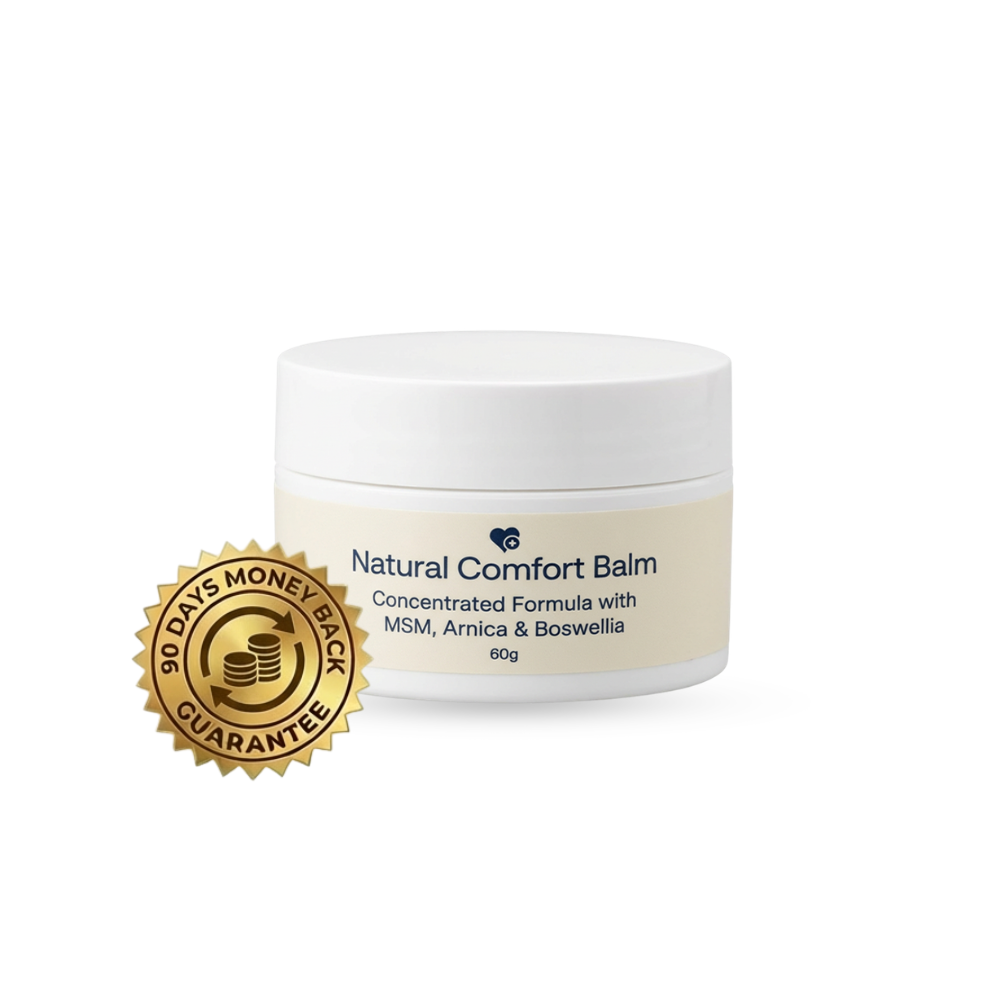
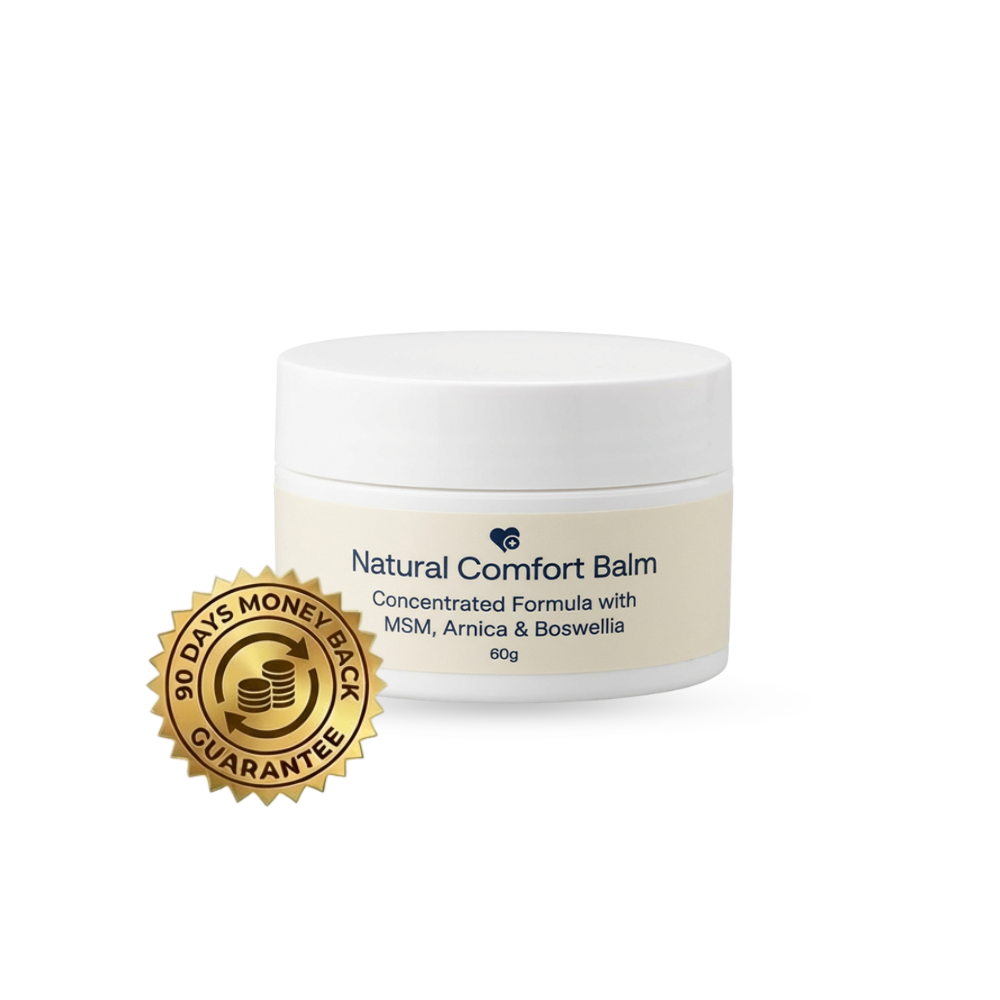
Update offer images and cache version

Changed region(s): [[0.124, 0.527, 0.403, 0.806]]

diff --git a/index.html b/index.html
@@ -10078,7 +10078,7 @@ body.dom-pending * {
                     Most Popular
                   </div><div class="nv-card-sublabel" id="cc-id-rl2vyj8Q4xjs">
                     Our recommended supply to see real, lasting results
-                  </div></div><div class="nv-card-body" id="cc-id-XyEAPtEicVgV"><img class="fk-disable-lazy" src="2x.png?v=e1def9e" alt="1-Month Supply" id="cc-id-pt6FReghFY4m" title="" href="" onclick="" target="_self" align="center" width="" height=""><div class="nv-card-total" id="cc-id-i84FM1mfpA1G">
+                  </div></div><div class="nv-card-body" id="cc-id-XyEAPtEicVgV"><img class="fk-disable-lazy" src="2x.png?v=20260527a" alt="1-Month Supply" id="cc-id-pt6FReghFY4m" title="" href="" onclick="" target="_self" align="center" width="" height=""><div class="nv-card-total" id="cc-id-i84FM1mfpA1G">
                     Total = $49.95
                   </div><div class="nv-card-was" id="cc-id-3lcBztOkwCSj">
                     Was $90.90
@@ -10094,7 +10094,7 @@ body.dom-pending * {
                     Best Value
                   </div><div class="nv-card-sublabel" id="cc-id-OiidhwPVyP7x">
                     Maximize results and savings with a full two-month supply
-                  </div></div><div class="nv-card-body" id="cc-id-wkQvYwWjpvrJ"><img class="fk-disable-lazy" src="4x.png?v=e1def9e" alt="2-Month Supply" id="cc-id-F6S13aYzeaLR" title="" href="" onclick="" target="_self" align="center" width="" height=""><div class="nv-card-total" id="cc-id-Jq1eCEq11DYC">
+                  </div></div><div class="nv-card-body" id="cc-id-wkQvYwWjpvrJ"><img class="fk-disable-lazy" src="4x.png?v=20260527a" alt="2-Month Supply" id="cc-id-F6S13aYzeaLR" title="" href="" onclick="" target="_self" align="center" width="" height=""><div class="nv-card-total" id="cc-id-Jq1eCEq11DYC">
                     Total = $89.90
                   </div><div class="nv-card-was" id="cc-id-oDoaSnbBMTdV">
                     Was $269.70
@@ -10110,7 +10110,7 @@ body.dom-pending * {
                     Introductory
                   </div><div class="nv-card-sublabel" id="cc-id-PyhYPVdKavXT">
                     Perfect if you want to test it out first
-                  </div></div><div class="nv-card-body" id="cc-id-AgvoRLbzQhU5"><img class="fk-disable-lazy" src="1x.png?v=e1def9e" alt="Single Balm" id="cc-id-W2KZ3nDjfDYQ" title="" href="" onclick="" target="_self" align="center" width="" height=""><div class="nv-card-total" id="cc-id-oYmzmd1jAY3w">
+                  </div></div><div class="nv-card-body" id="cc-id-AgvoRLbzQhU5"><img class="fk-disable-lazy" src="1x.png?v=20260527a" alt="Single Balm" id="cc-id-W2KZ3nDjfDYQ" title="" href="" onclick="" target="_self" align="center" width="" height=""><div class="nv-card-total" id="cc-id-oYmzmd1jAY3w">
                     Total = $34.95
                   </div><div class="nv-card-was" id="cc-id-j0hEogCFwBUs">
                     Was $59.95
@@ -10126,7 +10126,7 @@ body.dom-pending * {
                     Most Popular
                   </div><div class="nv-card-sublabel" id="cc-id-kKYDdfG9AFsk">
                     Our recommended supply to see real, lasting results
-                  </div></div><div class="nv-card-body" id="cc-id-QH50PFS9AUGL"><img class="fk-disable-lazy" src="2x.png?v=e1def9e" alt="1-Month Supply" id="cc-id-UgsL658cEjqr" title="" href="" onclick="" target="_self" align="center" width="" height=""><div class="nv-card-total" id="cc-id-PdVBfLPZQA5e">
+                  </div></div><div class="nv-card-body" id="cc-id-QH50PFS9AUGL"><img class="fk-disable-lazy" src="2x.png?v=20260527a" alt="1-Month Supply" id="cc-id-UgsL658cEjqr" title="" href="" onclick="" target="_self" align="center" width="" height=""><div class="nv-card-total" id="cc-id-PdVBfLPZQA5e">
                     Total = $59.95
                   </div><div class="nv-card-was" id="cc-id-lxB25Fq1tkR2">
                     Was $90.90
@@ -10142,7 +10142,7 @@ body.dom-pending * {
                     Best Value
                   </div><div class="nv-card-sublabel" id="cc-id-ApaUeScPJSYY">
                     Maximize results and savings with a full two-month supply
-                  </div></div><div class="nv-card-body" id="cc-id-gegyy5pv2Fvv"><img class="fk-disable-lazy" src="4x.png?v=e1def9e" alt="2-Month Supply" id="cc-id-n9FE255blcY4" title="" href="" onclick="" target="_self" align="center" width="" height=""><div class="nv-card-total" id="cc-id-YablWJGuYge8">
+                  </div></div><div class="nv-card-body" id="cc-id-gegyy5pv2Fvv"><img class="fk-disable-lazy" src="4x.png?v=20260527a" alt="2-Month Supply" id="cc-id-n9FE255blcY4" title="" href="" onclick="" target="_self" align="center" width="" height=""><div class="nv-card-total" id="cc-id-YablWJGuYge8">
                     Total = $109.95
                   </div><div class="nv-card-was" id="cc-id-MfpNS6NTpDGf">
                     Was $269.70
@@ -10158,7 +10158,7 @@ body.dom-pending * {
                     Introductory
                   </div><div class="nv-card-sublabel" id="cc-id-I82FJOvNlZP7">
                     Perfect if you want to test it out first
-                  </div></div><div class="nv-card-body" id="cc-id-3RSLGIKnb3eR"><img class="fk-disable-lazy" src="1x.png?v=e1def9e" alt="Single Balm" id="cc-id-eL1qOjXgDF1g" title="" href="" onclick="" target="_self" align="center" width="" height=""><div class="nv-card-total" id="cc-id-15tjhIEx4Jmw">
+                  </div></div><div class="nv-card-body" id="cc-id-3RSLGIKnb3eR"><img class="fk-disable-lazy" src="1x.png?v=20260527a" alt="Single Balm" id="cc-id-eL1qOjXgDF1g" title="" href="" onclick="" target="_self" align="center" width="" height=""><div class="nv-card-total" id="cc-id-15tjhIEx4Jmw">
                     Total = $41.95
                   </div><div class="nv-card-was" id="cc-id-XNqDIVDxu1Et">
                     Was $59.95
@@ -10266,7 +10266,7 @@ body.dom-pending * {
                               <br id="cc-id-4zi5uQnaHC0N"></p><p id="cc-id-Y6aC613VzXbK" data-layer-name="Text"><br id="cc-id-7xTV1FZe6ZaP"></p><p id="cc-id-7VX3DybbVWft">
                               No questions asked, no hassles. Either you love
                               your results—or you pay nothing.
-                            </p></div></div><div data-secondsdelay="" id="cc-id-Xf4dQNxpUfFF"><div style="text-align: left;" id="cc-id-NnuKrXZCLTDp"><br id="cc-id-I7gJ4iIMrtvB"></div></div></div></div><div data-text="text" data-secondsdelay="" id="cc-id-QvwWAvy4MJfJ"></div></div></div></div></div></div></div><grammarly-extension-vbars data-grammarly-shadow-root="true" style="display: contents; --rem: 16;" class="dnXmp" id="cc-id-Lnt8JhBNIFkG"></grammarly-extension-vbars><grammarly-extension-vbars data-grammarly-shadow-root="true" class="dnXmp" style="display: contents; --rem: 16;" id="cc-id-rsEMa9VBLxNQ"></grammarly-extension-vbars><div data-box="true" style="padding-top: 12px; padding-right: 10px; padding-left: 10px; width: 100%;" id="cc-id-21Q1T7Kw6r9y"><div data-box="true" data-secondsdelay="" id="ihjcb1s" class="contained" data-element-absolute="true"><div data-box="true" data-secondsdelay="" id="issy53u"><div data-secondsdelay="" class="fk-row" id="cc-id-Py2W9v0DCaIr"><div align="center" data-secondsdelay="" class="fk-col col" id="cc-id-MolHcRFptr1j"><img title="" target="_self" src="discount1.png?v=e1def9e" href="" align="center" alt="" width="" height="" onclick="" id="fkt-image-150-792-803" class="fk-image-defaults fk-disable-lazy disable-fk-lazy" style=""></div><div align="center" data-secondsdelay="" class="fk-col col" id="cc-id-NNJSYg9vuI4K"><div data-box="true" data-secondsdelay="" id="ine8pe"><div data-text="text" data-secondsdelay="" id="iqtb0g" style="font-family: Poppins !important;" spellcheck="false"><span style="font-weight:700;" id="cc-id-d3adnZm5YUGK">Claim Your Discount Today
+                            </p></div></div><div data-secondsdelay="" id="cc-id-Xf4dQNxpUfFF"><div style="text-align: left;" id="cc-id-NnuKrXZCLTDp"><br id="cc-id-I7gJ4iIMrtvB"></div></div></div></div><div data-text="text" data-secondsdelay="" id="cc-id-QvwWAvy4MJfJ"></div></div></div></div></div></div></div><grammarly-extension-vbars data-grammarly-shadow-root="true" style="display: contents; --rem: 16;" class="dnXmp" id="cc-id-Lnt8JhBNIFkG"></grammarly-extension-vbars><grammarly-extension-vbars data-grammarly-shadow-root="true" class="dnXmp" style="display: contents; --rem: 16;" id="cc-id-rsEMa9VBLxNQ"></grammarly-extension-vbars><div data-box="true" style="padding-top: 12px; padding-right: 10px; padding-left: 10px; width: 100%;" id="cc-id-21Q1T7Kw6r9y"><div data-box="true" data-secondsdelay="" id="ihjcb1s" class="contained" data-element-absolute="true"><div data-box="true" data-secondsdelay="" id="issy53u"><div data-secondsdelay="" class="fk-row" id="cc-id-Py2W9v0DCaIr"><div align="center" data-secondsdelay="" class="fk-col col" id="cc-id-MolHcRFptr1j"><img title="" target="_self" src="discount1.png?v=20260527a" href="" align="center" alt="" width="" height="" onclick="" id="fkt-image-150-792-803" class="fk-image-defaults fk-disable-lazy disable-fk-lazy" style=""></div><div align="center" data-secondsdelay="" class="fk-col col" id="cc-id-NNJSYg9vuI4K"><div data-box="true" data-secondsdelay="" id="ine8pe"><div data-text="text" data-secondsdelay="" id="iqtb0g" style="font-family: Poppins !important;" spellcheck="false"><span style="font-weight:700;" id="cc-id-d3adnZm5YUGK">Claim Your Discount Today
 </span></div><div data-text="text" data-secondsdelay="" id="cc-id-M2ykRJaPIBVQ" style="font-family: Poppins !important;"></div><div data-box="true" style="padding: 12px 10px; width: 100%;" id="cc-id-wH3FNRX9aF8E"></div><div data-text="text" data-secondsdelay="" id="cc-id-NMYdLvPXNBRt" spellcheck="false"><b class="rte-styled-text" id="cc-id-k5PjSBBoJ6MU"></b><b class="rte-styled-text" id="cc-id-xPMPcp9JfDNd">Try Nurovita Natural Comfort Balm RISK-FREE</b><div class="rte-styled-text" id="cc-id-bbkwHYFZvfBY"><div class="rte-styled-text" id="cc-id-SuWjN8B5lach"><span class="font-000000FF cc-rte-styled rte-styled-text" id="cc-id-IgKgKw3zo8Cx"></span></div></div></div><ul id="iq4ms1" class="fk-bullet"><li id="cc-id-EizAE5cSF8X4"><div data-text="text" data-secondsdelay="" id="cc-id-SQA5g6q4DpYs">
                           Here's Everything You Get:<br class="rte-styled-text" id="cc-id-1aLZi5T8py91"></div><div style="display:flex;align-items:flex-start;gap:10px;padding:8px 0;font-size:16px;line-height:1.5;font-weight:400;margin-top:10px;" id="cc-id-2jFy2FV5x79Z"><i class="icp icp-auto far fa-check-circle" style="flex-shrink:0;margin-top:2px;font-size:20px;color:#417505;" id="cc-id-hGVyU1xNO2Kz"></i><span id="cc-id-yp9z9R9SAiTA"><b style="font-weight:700;" id="cc-id-ei5tSu6PzCKe">HUGE Discount</b>
                             — Up to 67% off today only</span></div><div style="display:flex;align-items:flex-start;gap:10px;padding:8px 0;font-size:16px;line-height:1.5;font-weight:400;" id="cc-id-YuZjjemP0wPv"><i class="icp icp-auto far fa-check-circle" style="flex-shrink:0;margin-top:2px;font-size:20px;color:#417505;" id="cc-id-gHEfbCpufgla"></i><span id="cc-id-1HP2wSxSeub5"><b style="font-weight:700;" id="cc-id-lklfiQQZsbOO">FREE Shipping</b>
@@ -11630,9 +11630,9 @@ body.dom-pending * {
             '</div>';
           }
 
-          var img3x = '4x.png?v=e1def9e';
-          var img2x = '2x.png?v=e1def9e';
-          var img1x = '1x.png?v=e1def9e';
+          var img3x = '4x.png?v=20260527a';
+          var img2x = '2x.png?v=20260527a';
+          var img1x = '1x.png?v=20260527a';
           var badgeImg = 'https://assets.checkoutchamp.com/dc45bbf0-81eb-11ef-a2da-133f014b1a7b/1761201883991_1739101029225_1718202742_1710844536_pay_safty.webp';
           var checkoutImg = 'https://assets.checkoutchamp.com/dc45bbf0-81eb-11ef-a2da-133f014b1a7b/1761202515467_CHECKOUT_1062_x_200_px_.png';
 
@@ -12079,3 +12079,4 @@ body.dom-pending * {
         </style>
 
         </body></html>
+